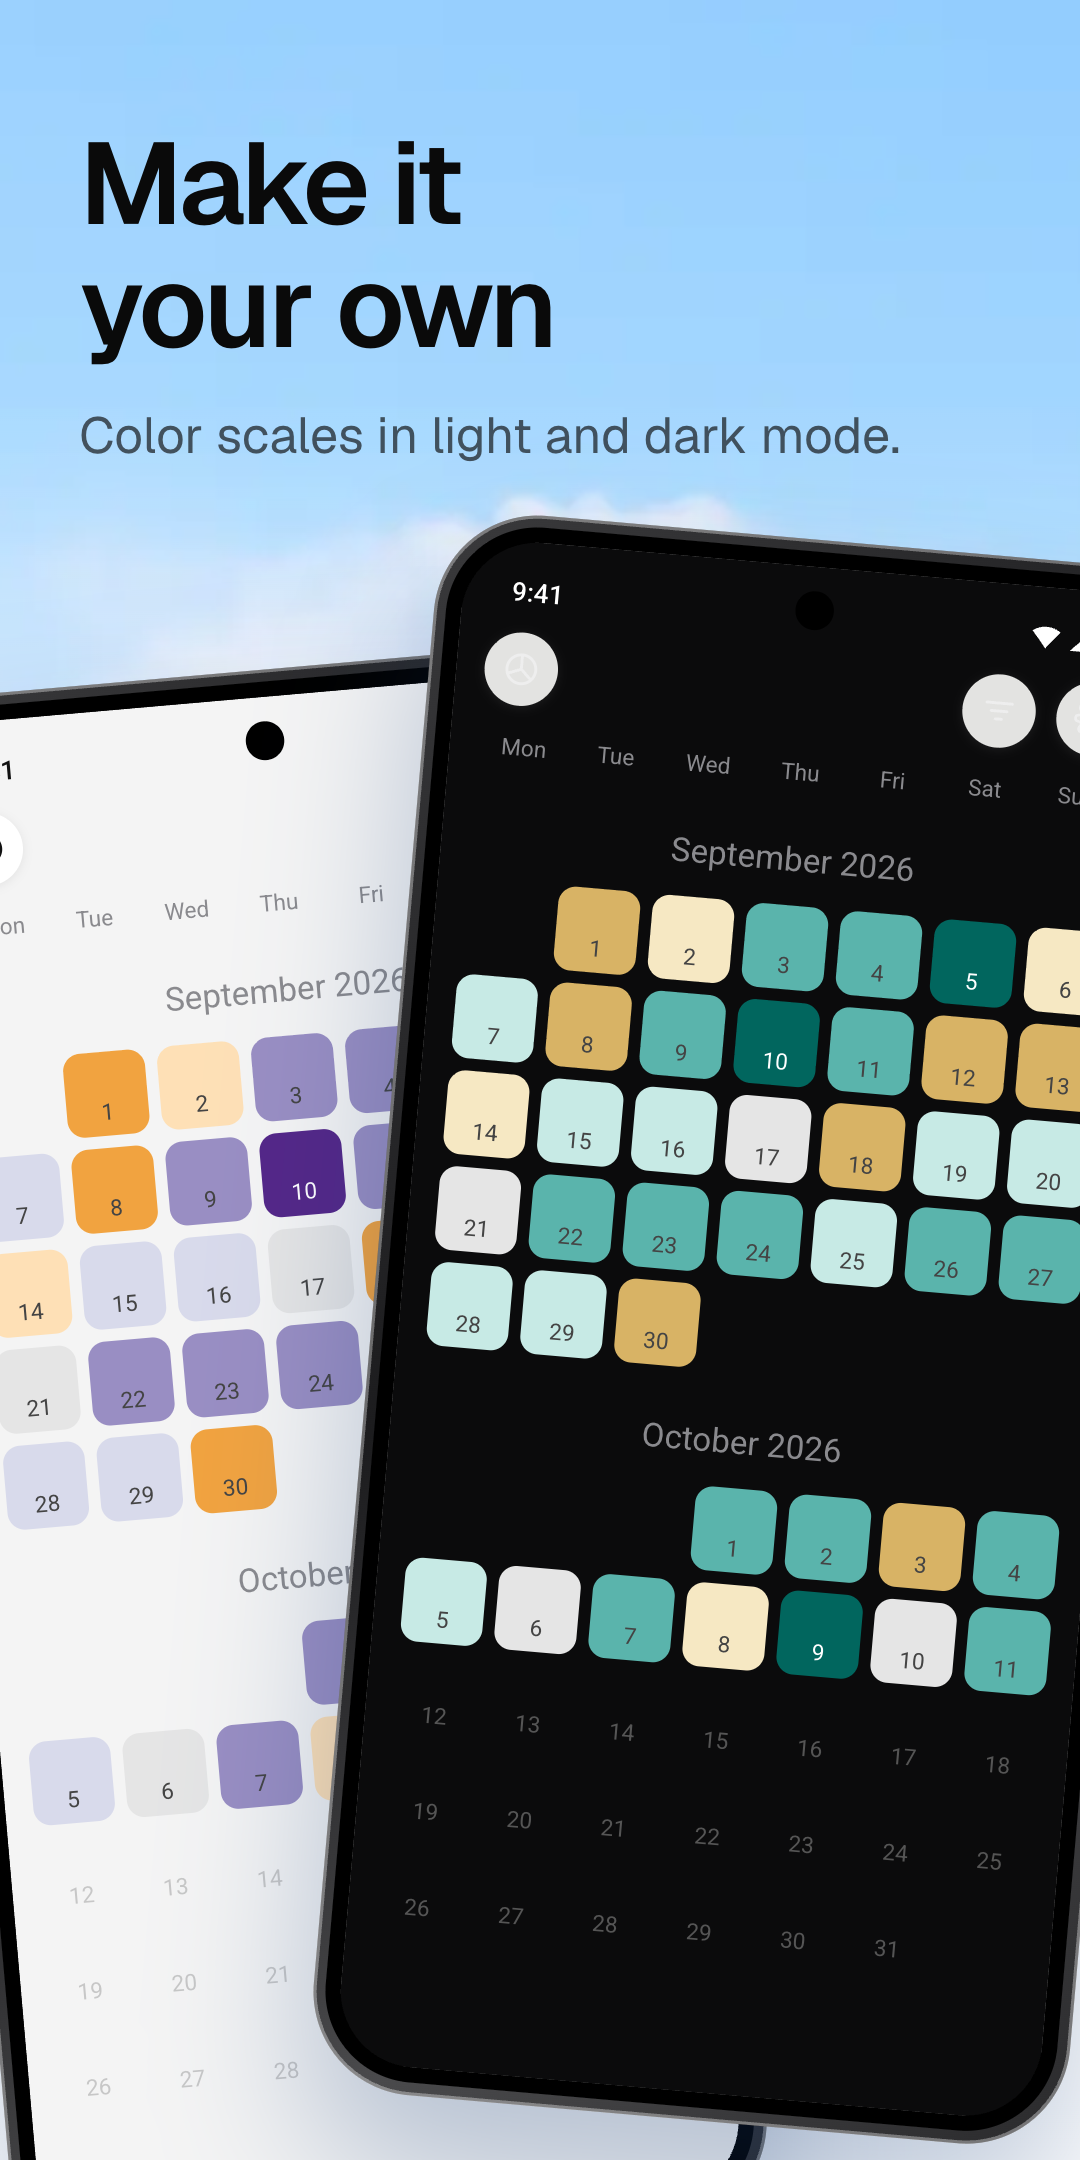
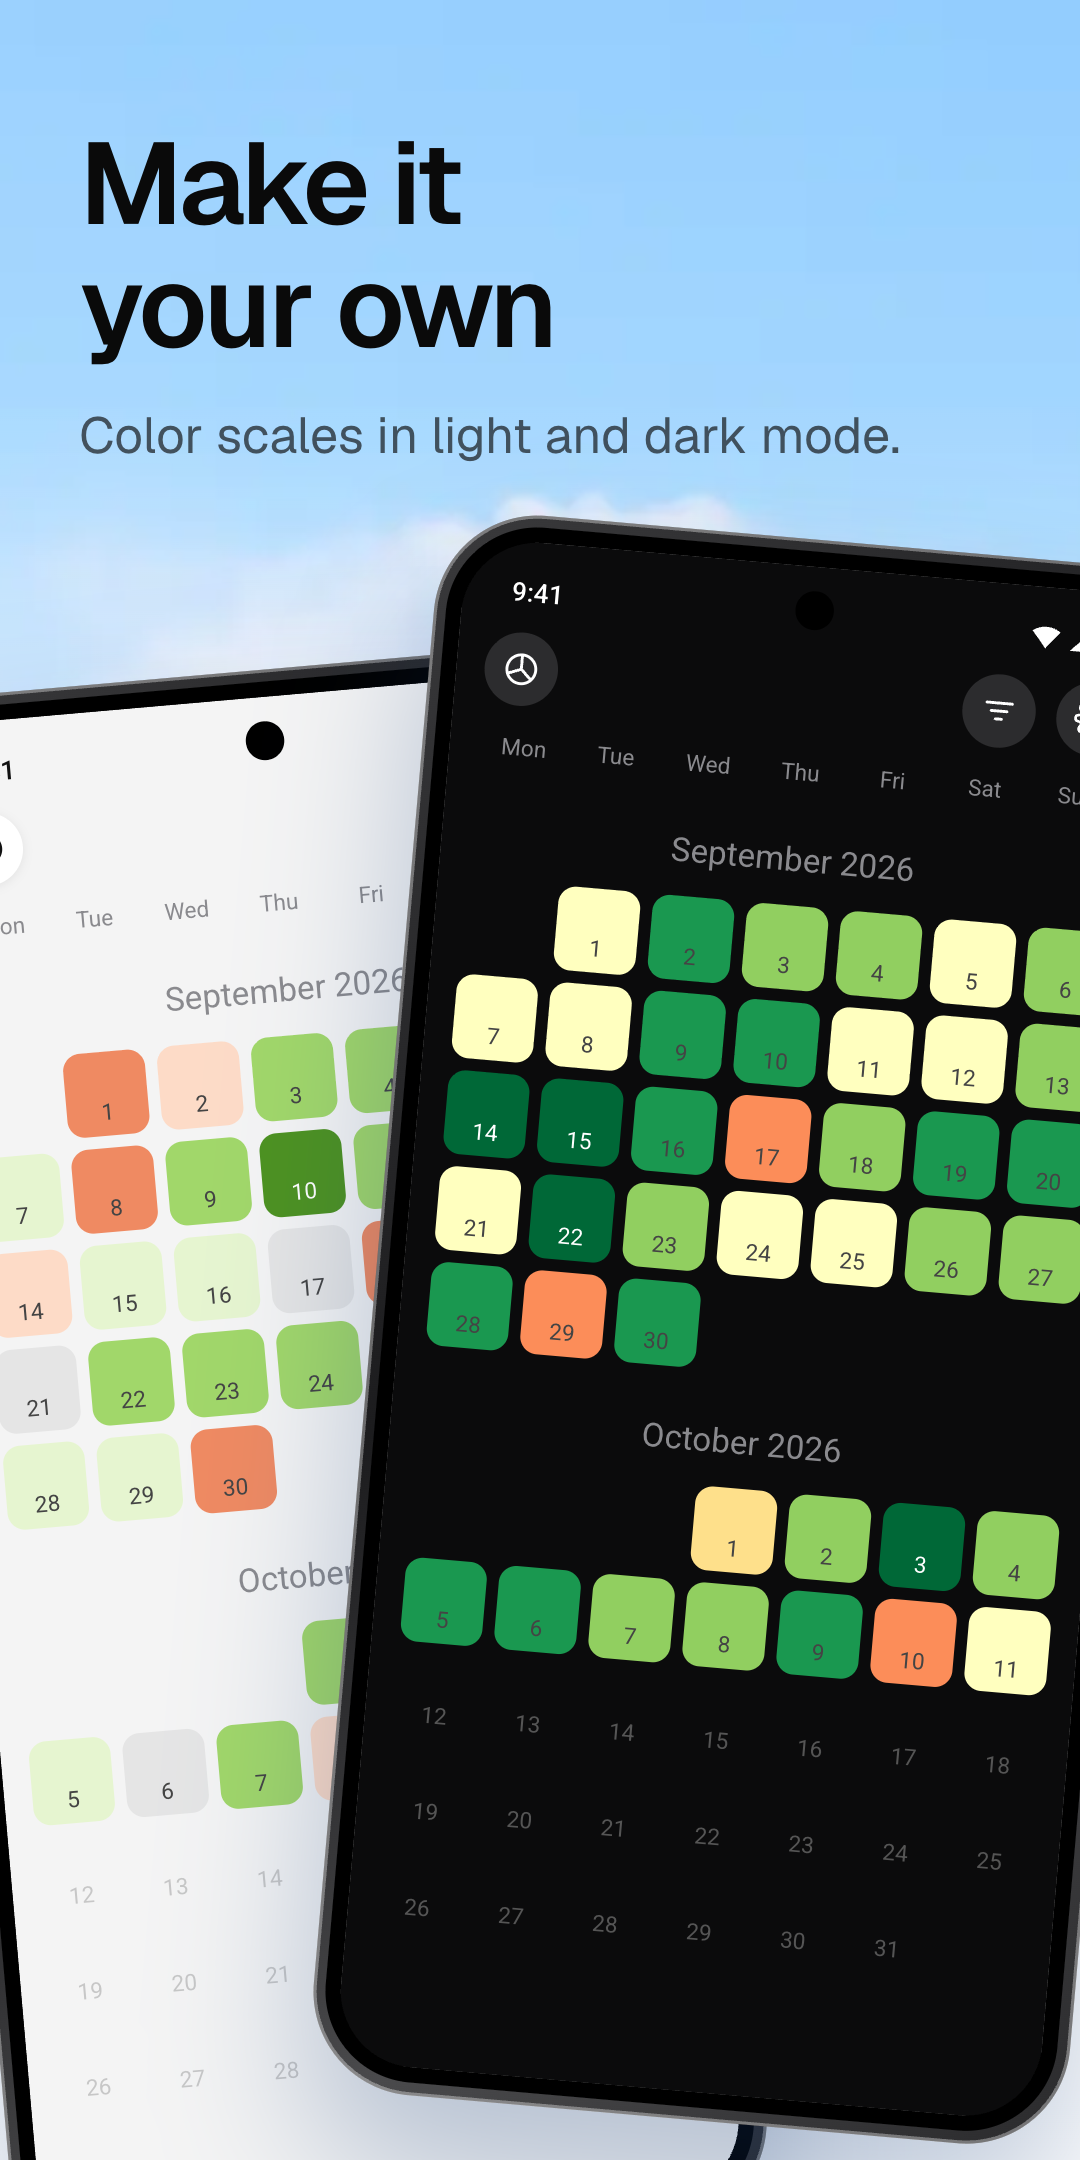
docs(store-screenshots): use supported color scales on themes screen
Settings > Colors offers RdYlGn, RdYG and RdYlGn-old. Show RdYG (light)
and RdYlGn-old (dark) instead of the hidden PuOr and BrBG. Fix invisible
top bar icons on the dark calendar.

diff --git a/docs/store-screenshots/index.html b/docs/store-screenshots/index.html
@@ -165,8 +165,8 @@ radial-gradient(1.4px 1.4px at 18% 10%,#fff,transparent),radial-gradient(1px 1px
  <h4>Your year<br>in pixels</h4><div class="sub">See every day of the year at a glance.</div>
  <div class="phA" style="top:156px;transform:translateX(-50%) scale(var(--fit));transform-origin:50% 0;"><div class="bz"><div class="sc" data-app="year" data-args=''></div></div></div></div><div class="lab"><b>5 · Year.</b></div></div><div class="slot"><div class="scr ">
  <h4>Make it<br>your own</h4><div class="sub">Color scales in light and dark mode.</div>
- <div class="phA" style="top:186px;left:24%;transform:translateX(-50%) rotate(-5deg) scale(.85);transform-origin:50% 0;"><div class="bz"><div class="sc" data-app="calendar" data-args='puor'></div></div></div>
- <div class="phA" style="top:150px;left:76%;transform:translateX(-50%) rotate(5deg) scale(.85);transform-origin:50% 0;z-index:2;"><div class="bz"><div class="sc" data-app="calendar" data-args='brbg,dark'></div></div></div></div><div class="lab"><b>6 · Themes.</b></div></div><div class="slot"><div class="scr dark">
+ <div class="phA" style="top:186px;left:24%;transform:translateX(-50%) rotate(-5deg) scale(.85);transform-origin:50% 0;"><div class="bz"><div class="sc" data-app="calendar" data-args='rdyg'></div></div></div>
+ <div class="phA" style="top:150px;left:76%;transform:translateX(-50%) rotate(5deg) scale(.85);transform-origin:50% 0;z-index:2;"><div class="bz"><div class="sc" data-app="calendar" data-args='rdylgnOld,dark'></div></div></div></div><div class="lab"><b>6 · Themes.</b></div></div><div class="slot"><div class="scr dark">
  <h4 style="align-self:flex-start;text-align:left">We care about<br>your privacy.</h4><div class="sub" style="align-self:flex-start;text-align:left;color:#fff">We know it's hard to trust, but we truly care about your privacy.</div>
  <div class="plist" style="margin-top:auto;margin-bottom:auto"><div><svg width="22" height="22" viewBox="0 0 22 22"><circle cx="11" cy="11" r="10" fill="none" stroke="#34d399" stroke-width="1.6"/><path d="M6.5 11.5l3 3L15.5 8" stroke="#34d399" stroke-width="2" fill="none" stroke-linecap="round" stroke-linejoin="round"/></svg>Stored on Your Device Only</div><div><svg width="22" height="22" viewBox="0 0 22 22"><circle cx="11" cy="11" r="10" fill="none" stroke="#34d399" stroke-width="1.6"/><path d="M6.5 11.5l3 3L15.5 8" stroke="#34d399" stroke-width="2" fill="none" stroke-linecap="round" stroke-linejoin="round"/></svg>No Account, No Sign-Up</div><div><svg width="22" height="22" viewBox="0 0 22 22"><circle cx="11" cy="11" r="10" fill="none" stroke="#34d399" stroke-width="1.6"/><path d="M6.5 11.5l3 3L15.5 8" stroke="#34d399" stroke-width="2" fill="none" stroke-linecap="round" stroke-linejoin="round"/></svg>No Ads</div><div><svg width="22" height="22" viewBox="0 0 22 22"><circle cx="11" cy="11" r="10" fill="none" stroke="#34d399" stroke-width="1.6"/><path d="M6.5 11.5l3 3L15.5 8" stroke="#34d399" stroke-width="2" fill="none" stroke-linecap="round" stroke-linejoin="round"/></svg>Export Your Data Anytime</div><div><svg width="22" height="22" viewBox="0 0 22 22"><circle cx="11" cy="11" r="10" fill="none" stroke="#34d399" stroke-width="1.6"/><path d="M6.5 11.5l3 3L15.5 8" stroke="#34d399" stroke-width="2" fill="none" stroke-linecap="round" stroke-linejoin="round"/></svg>Open Source</div><div class="soon"><svg width="22" height="22" viewBox="0 0 22 22"><circle cx="11" cy="11" r="10" fill="none" stroke="#34d399" stroke-width="1.6"/><path d="M6.5 11.5l3 3L15.5 8" stroke="#34d399" stroke-width="2" fill="none" stroke-linecap="round" stroke-linejoin="round"/></svg>Supporter Plan Coming Soon</div></div></div><div class="lab"><b>7 · Privacy.</b></div></div></div>
 <div class="platform"><h2>Android · Google Play</h2></div>
@@ -190,11 +190,11 @@ radial-gradient(1.4px 1.4px at 18% 10%,#fff,transparent),radial-gradient(1px 1px
  <h4>Your year<br>in pixels</h4><div class="sub">See every day of the year at a glance.</div>
  <div class="phA" style="top:156px;transform:translateX(-50%) scale(var(--fit));transform-origin:50% 0;"><div class="bz"><div class="sc" data-app="year" data-args=''></div></div></div></div><div class="lab"><b>5 · Year.</b></div></div><div class="slot"><div class="scr ">
  <h4>Make it<br>your own</h4><div class="sub">Color scales in light and dark mode.</div>
- <div class="phA" style="top:186px;left:24%;transform:translateX(-50%) rotate(-5deg) scale(.85);transform-origin:50% 0;"><div class="bz"><div class="sc" data-app="calendar" data-args='puor'></div></div></div>
- <div class="phA" style="top:150px;left:76%;transform:translateX(-50%) rotate(5deg) scale(.85);transform-origin:50% 0;z-index:2;"><div class="bz"><div class="sc" data-app="calendar" data-args='brbg,dark'></div></div></div></div><div class="lab"><b>6 · Themes.</b></div></div><div class="slot"><div class="scr dark">
+ <div class="phA" style="top:186px;left:24%;transform:translateX(-50%) rotate(-5deg) scale(.85);transform-origin:50% 0;"><div class="bz"><div class="sc" data-app="calendar" data-args='rdyg'></div></div></div>
+ <div class="phA" style="top:150px;left:76%;transform:translateX(-50%) rotate(5deg) scale(.85);transform-origin:50% 0;z-index:2;"><div class="bz"><div class="sc" data-app="calendar" data-args='rdylgnOld,dark'></div></div></div></div><div class="lab"><b>6 · Themes.</b></div></div><div class="slot"><div class="scr dark">
  <h4 style="align-self:flex-start;text-align:left">We care about<br>your privacy.</h4><div class="sub" style="align-self:flex-start;text-align:left;color:#fff">We know it's hard to trust, but we truly care about your privacy.</div>
  <div class="plist" style="margin-top:auto;margin-bottom:auto"><div><svg width="22" height="22" viewBox="0 0 22 22"><circle cx="11" cy="11" r="10" fill="none" stroke="#34d399" stroke-width="1.6"/><path d="M6.5 11.5l3 3L15.5 8" stroke="#34d399" stroke-width="2" fill="none" stroke-linecap="round" stroke-linejoin="round"/></svg>Stored on Your Device Only</div><div><svg width="22" height="22" viewBox="0 0 22 22"><circle cx="11" cy="11" r="10" fill="none" stroke="#34d399" stroke-width="1.6"/><path d="M6.5 11.5l3 3L15.5 8" stroke="#34d399" stroke-width="2" fill="none" stroke-linecap="round" stroke-linejoin="round"/></svg>No Account, No Sign-Up</div><div><svg width="22" height="22" viewBox="0 0 22 22"><circle cx="11" cy="11" r="10" fill="none" stroke="#34d399" stroke-width="1.6"/><path d="M6.5 11.5l3 3L15.5 8" stroke="#34d399" stroke-width="2" fill="none" stroke-linecap="round" stroke-linejoin="round"/></svg>No Ads</div><div><svg width="22" height="22" viewBox="0 0 22 22"><circle cx="11" cy="11" r="10" fill="none" stroke="#34d399" stroke-width="1.6"/><path d="M6.5 11.5l3 3L15.5 8" stroke="#34d399" stroke-width="2" fill="none" stroke-linecap="round" stroke-linejoin="round"/></svg>Export Your Data Anytime</div><div><svg width="22" height="22" viewBox="0 0 22 22"><circle cx="11" cy="11" r="10" fill="none" stroke="#34d399" stroke-width="1.6"/><path d="M6.5 11.5l3 3L15.5 8" stroke="#34d399" stroke-width="2" fill="none" stroke-linecap="round" stroke-linejoin="round"/></svg>Open Source</div><div class="soon"><svg width="22" height="22" viewBox="0 0 22 22"><circle cx="11" cy="11" r="10" fill="none" stroke="#34d399" stroke-width="1.6"/><path d="M6.5 11.5l3 3L15.5 8" stroke="#34d399" stroke-width="2" fill="none" stroke-linecap="round" stroke-linejoin="round"/></svg>Supporter Plan Coming Soon</div></div></div><div class="lab"><b>7 · Privacy.</b></div></div></div></main>
-<script src="https://unpkg.com/lucide@0.460.0/dist/umd/lucide.min.js"></script><script src="emotion-icons.js?v=1792487340"></script><script src="appscreens.js?v=1792487340"></script><script>
+<script src="https://unpkg.com/lucide@0.460.0/dist/umd/lucide.min.js"></script><script src="emotion-icons.js?v=1792487567"></script><script src="appscreens.js?v=1792487567"></script><script>
 document.head.insertAdjacentHTML('beforeend','<style>'+APP.css+'</style>');
 document.querySelectorAll('[data-app]').forEach(el=>{window.PIXY_OS=el.closest('.android-set')?'android':'ios';const a=(el.dataset.args||'').split(',').filter(Boolean);el.innerHTML=APP.render(el.dataset.app,a[0]||undefined,a[1]==='dark')});window.PIXY_OS='ios';
 document.querySelectorAll('[data-card]').forEach(el=>el.innerHTML='<div class="ps">'+APP.card(el.dataset.card)+'</div>');

diff --git a/docs/store-screenshots/appscreens.js b/docs/store-screenshots/appscreens.js
@@ -126,8 +126,9 @@
   // ---- Round 8 screens (spec: app-screens.md) ----
   const SCALES = {
     default: [C.m1, C.m2, C.m3, C.m4, C.m5, C.m6, C.m7],
-    puor: ['#542788', '#998ec3', '#d8daeb', '#e5e5e5', '#fee0b6', '#f1a340', '#b35806'],
-    brbg: ['#01665e', '#5ab4ac', '#c7eae5', '#e5e5e5', '#f6e8c3', '#d8b365', '#8c510a'],
+    // Scales offered in Settings > Colors (src/constants/colors/scales.ts)
+    rdyg: ['#4d9221', '#a1d76a', '#e6f5d0', '#e5e5e5', '#fddbc7', '#ef8a62', '#b2182b'],
+    rdylgnOld: ['#006837', '#1a9850', '#91cf60', '#ffffbf', '#fee08b', '#fc8d59', '#d73027'],
   };
   const pickMood = (x, sc) => x < 0.08 ? sc[0] : x < 0.34 ? sc[1] : x < 0.58 ? sc[2] : x < 0.76 ? sc[3] : x < 0.88 ? sc[4] : sc[5];
   S.mood = () => `<div style="position:absolute;inset:0;background:#d9d9db"></div><div style="position:relative">${statusbar()}</div>
@@ -140,7 +141,7 @@
     for (let d = 1; d <= len; d++) { const x = r(); const future = d > upto; const miss = false && x; const c = future || miss ? null : pickMood(r(), sc);
       h += `<div style="height:48px;border-radius:10px;${c ? `background:${c}` : future ? '' : `border:1.5px dashed ${dark ? '#444' : '#d4d4d4'}`};display:flex;align-items:flex-end;justify-content:center;padding-bottom:4px;font-size:13px;color:${future ? (dark ? '#555' : '#c7c7c7') : c && sc.indexOf(c) === 0 && sc !== SCALES.default ? '#fff' : dark && !c ? '#777' : '#444'}">${d}</div>`; }
     return h + '</div>'; };
-  S.calendar = (scale = 'default', dark = false) => { const sc = SCALES[scale]; return `<div style="position:absolute;inset:0;background:${dark ? '#0b0b0c' : C.bg}"></div><div style="position:relative;color:${dark ? '#fff' : '#111'}">${statusbar(dark)}<div class="top">${['stats', 'filter', 'gear'].map((k, i) => `${i === 1 ? '<span class="g">' : ''}<span class="rb" style="${dark ? 'background:#1c1c1e;filter:invert(1)' : ''}">${svg[k]}</span>`).join('')}</span></div>
+  S.calendar = (scale = 'default', dark = false) => { const sc = SCALES[scale]; return `<div style="position:absolute;inset:0;background:${dark ? '#0b0b0c' : C.bg}"></div><div style="position:relative;color:${dark ? '#fff' : '#111'}">${statusbar(dark)}<div class="top">${['stats', 'filter', 'gear'].map((k, i) => `${i === 1 ? '<span class="g">' : ''}<span class="rb" style="${dark ? 'background:#2c2c2e' : ''}">${dark ? svg[k].replace(/#111/g, '#fff') : svg[k]}</span>`).join('')}</span></div>
     <div style="display:grid;grid-template-columns:repeat(7,1fr);padding:14px 16px 0;color:#8a8a8e;font-size:13px;text-align:center">${'Mon Tue Wed Thu Fri Sat Sun'.split(' ').map((d) => `<span>${d}</span>`).join('')}</div>
     ${monthGrid('September 2026', 1, 30, 11 + scale.length, sc, 30, dark)}${monthGrid('October 2026', 3, 31, 5 + scale.length, sc, 11, dark)}</div><div class="fab">${svg.plus}</div>`; };
 

diff --git a/docs/store-screenshots/build.py b/docs/store-screenshots/build.py
@@ -244,10 +244,10 @@ SLOTS = [
     ("<b>5 · Year.</b> Year Report: Year in Pixels.", None, "", f"""
  <h4>Your year<br>in pixels</h4><div class="sub">See every day of the year at a glance.</div>
  {phone('year', 156, 'transform:translateX(-50%) scale(var(--fit));transform-origin:50% 0;')}"""),
-    ("<b>6 · Themes.</b> Calendar in PuOr (light) and BrBG (dark).", None, "", f"""
+    ("<b>6 · Themes.</b> Calendar in RdYG (light) and RdYlGn-old (dark), the non-default scales in Settings > Colors.", None, "", f"""
  <h4>Make it<br>your own</h4><div class="sub">Color scales in light and dark mode.</div>
- {phone('calendar', 186, 'left:24%;transform:translateX(-50%) rotate(-5deg) scale(.85);transform-origin:50% 0;', 'puor')}
- {phone('calendar', 150, 'left:76%;transform:translateX(-50%) rotate(5deg) scale(.85);transform-origin:50% 0;z-index:2;', 'brbg,dark')}"""),
+ {phone('calendar', 186, 'left:24%;transform:translateX(-50%) rotate(-5deg) scale(.85);transform-origin:50% 0;', 'rdyg')}
+ {phone('calendar', 150, 'left:76%;transform:translateX(-50%) rotate(5deg) scale(.85);transform-origin:50% 0;z-index:2;', 'rdylgnOld,dark')}"""),
     ("<b>7 · Privacy.</b> Black, no lock icon, list mid-screen, on-device box at the bottom.", ("flag", "Face ID: flag app-lock"), "dark", f"""
  <h4 style="align-self:flex-start;text-align:left">We care about<br>your privacy.</h4><div class="sub" style="align-self:flex-start;text-align:left;color:#fff">We know it's hard to trust, but we truly care about your privacy.</div>
  <div class="plist" style="margin-top:auto;margin-bottom:auto"><div>{CK}Stored on Your Device Only</div><div>{CK}No Account, No Sign-Up</div><div>{CK}No Ads</div><div>{CK}Export Your Data Anytime</div><div>{CK}Open Source</div><div class="soon">{CK}Supporter Plan Coming Soon</div></div>"""),
